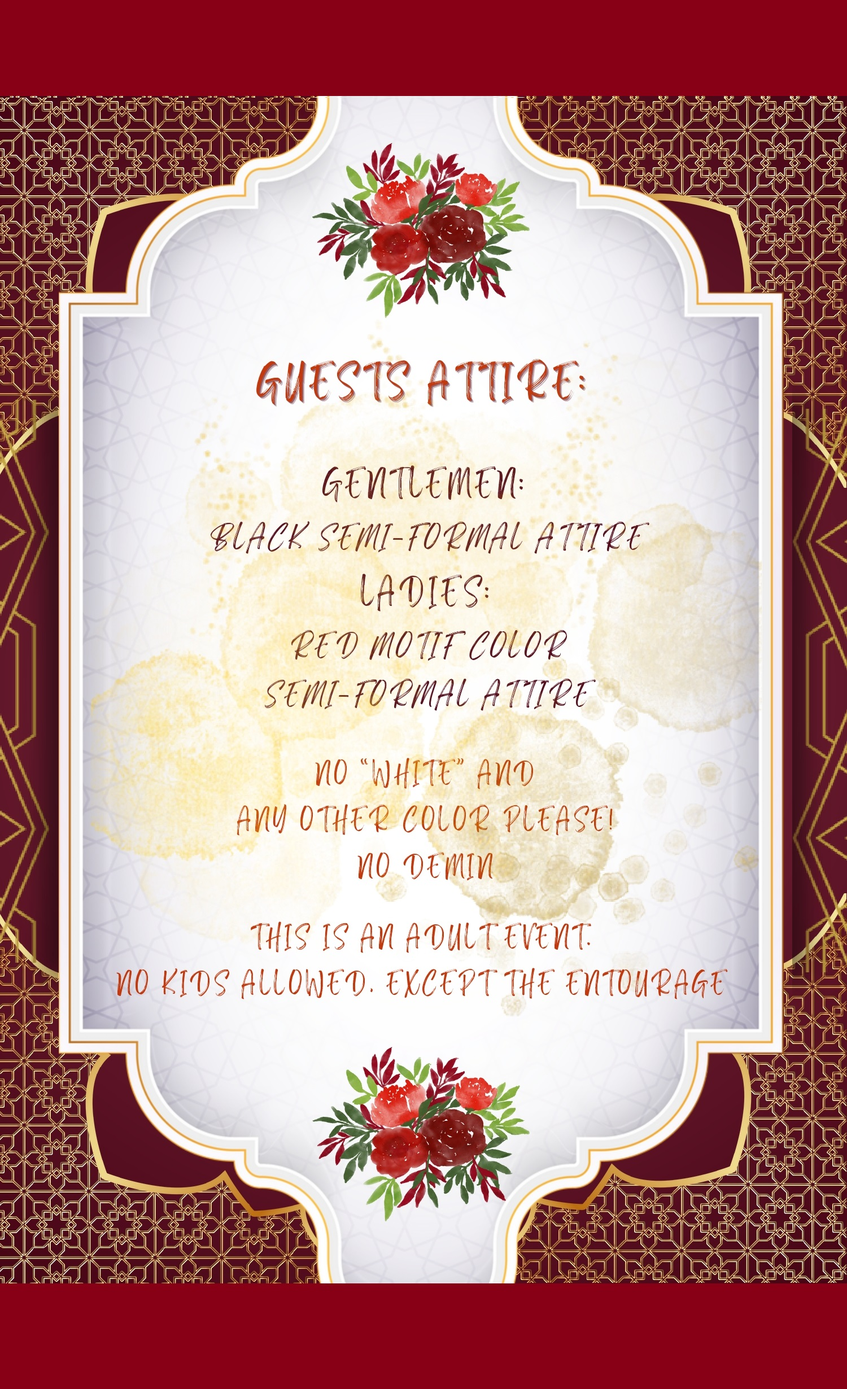
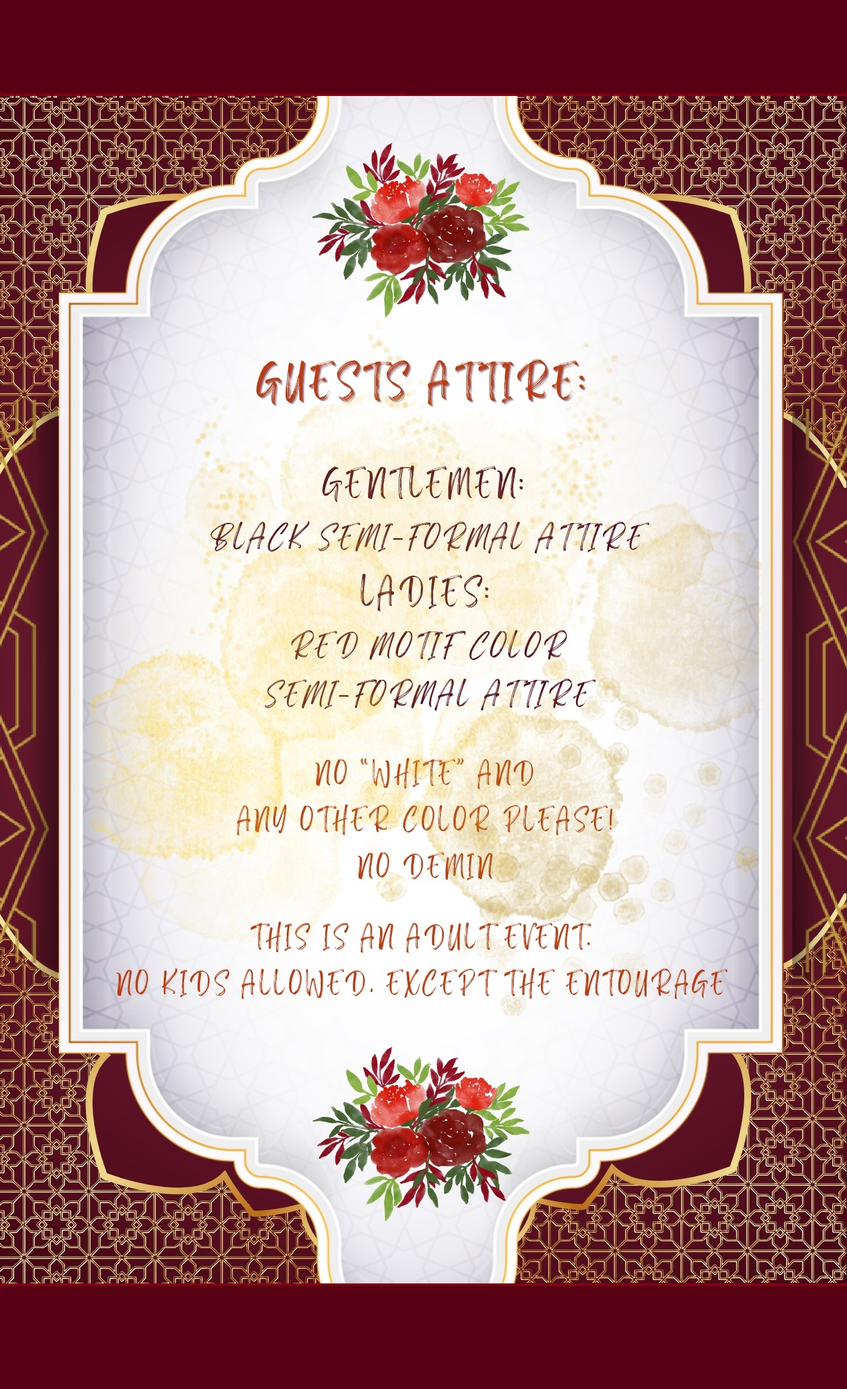
Add files via upload

Changed region(s): [[0.0, 0.9268, 1.0, 1.0], [0.0, 0.0, 1.0, 0.0927]]

diff --git a/style.css b/style.css
@@ -17,6 +17,8 @@
 }
 
 body {
+    background-color: rgb(90, 0, 0);
+
     @media screen and (min-width: 800px) {
         display: -webkit-box;
         display: -ms-flexbox;
@@ -138,7 +140,7 @@ ul {
 
 .firstPage {
     background-image: url('files/Invitation\ Cover_page-0001.jpg');
-    background-size: cover;
+    background-size: 100% 100%;
 
     @media screen and (min-width: 800px) {
         height: 100vh;
@@ -156,7 +158,7 @@ ul {
 
 .secondPage {
     background-image: url('files/Invitation\ Page\ 2_page-0001.jpg');
-    background-size: cover;
+    background-size: 100% 100%;
     -webkit-animation: fade-in;
             animation: fade-in;
     animation-timeline: view();
@@ -179,7 +181,7 @@ ul {
 
 .thirdPage {
     background-image: url('files/The\ Entourage\ Cover_page-0001.jpg');
-    background-size: cover;
+    background-size: 100% 100%;
     position: relative;
     -webkit-animation: fade-in;
             animation: fade-in;
@@ -258,7 +260,7 @@ ul {
 
 .fourthPage {
     background-image: url('files/The Venue Cover_page-0001.jpg');
-    background-size: cover;
+    background-size: 100% 100%;
     -webkit-animation: fade-in;
             animation: fade-in;
     animation-timeline: view();
@@ -281,7 +283,7 @@ ul {
 
 .fifthPage {
     background-image: url('files/The Venue Cover_page-0001.jpg');
-    background-size: cover;
+    background-size: 100% 100%;
     position: relative;
     -webkit-animation: fade-in;
             animation: fade-in;
@@ -390,7 +392,7 @@ ul {
 
 .sixthPage {
     background-image: url('files/Wedding Details Cover_page-0001.jpg');
-    background-size: cover;
+    background-size: 100% 100%;
     position: relative;
     -webkit-animation: fade-in;
             animation: fade-in;
@@ -448,7 +450,7 @@ ul {
 
 .seventhPage {
     background-image: url('files/Dresscode Cover_page-0001.jpg');
-    background-size: cover;
+    background-size: 100% 100%;
     -webkit-animation: fade-in;
             animation: fade-in;
     animation-timeline: view();
@@ -471,7 +473,7 @@ ul {
 
 .eightPage {
     background-image: url('files/Dresscode Page 1_page-0001.jpg');
-    background-size: cover;
+    background-size: 100% 100%;
     -webkit-animation: fade-in;
             animation: fade-in;
     animation-timeline: view();
@@ -495,7 +497,7 @@ ul {
 
 .ninthPage {
     background-image: url('files/Dresscode Page 2_page-0001.jpg');
-    background-size: cover;
+    background-size: 100% 100%;
     -webkit-animation: fade-in;
             animation: fade-in;
     animation-timeline: view();
@@ -519,7 +521,7 @@ ul {
 
 .tenthPage {
     background-image: url('files/Dresscode Page 3_page-0001.jpg');
-    background-size: cover;
+    background-size: 100% 100%;
     -webkit-animation: fade-in;
             animation: fade-in;
     animation-timeline: view();
@@ -543,7 +545,7 @@ ul {
 
 .formPage {
     background-image: url('files/The\ Form.jpg');
-    background-size: cover;
+    background-size: 100% 100%;
     -webkit-animation: fade-in;
             animation: fade-in;
     animation-timeline: view();
@@ -578,6 +580,7 @@ form {
     align-items: center;
     height: 50vh;
     width: 20vh;
+    color: gold;
 }
 
 #fullName {
@@ -607,6 +610,6 @@ form {
 
     @media screen and (max-width: 800px) {
         height: 3rem;
-        width: 20%;
+        width: 40%;
     }
 }

diff --git a/script.js b/script.js
@@ -17,6 +17,7 @@ let ul = document.getElementById("ul");
 let btn_group = document.getElementById("btn_group");
 let popUp = document.getElementById("popUp");
 let popUp_btn = document.getElementById("popUp_btn");
+let background_img = document.getElementById("background_img");
 let detailsPageTwo = true;
 let heigthFormula = window.innerHeight;
 let ulHeightFormula = window.innerHeight * 0.03;
@@ -31,8 +32,11 @@ let lowerBtn = window.innerHeight * 0.1;
 let lowerBtnTwo = window.innerHeight * 0.05;
 let padBot = window.innerHeight * 0.1;
 let screenWidth = window.innerWidth; 
+let screenHeight = window.innerHeight; 
+let pageHeight = firstPage.innerHeight;
+let pageWidth = firstPage.innerWidth;
 
-if (screenWidth <= 800) {
+if (screenWidth <= 1100) {
     popUp.style.width = popUpWidthFormula + 'px';
     popUp.style.height = popUpHeightFormula + 'px';
     popUp.style.top = popUpTopFormula + 'px';
@@ -55,7 +59,19 @@ if (screenWidth <= 800) {
     eightPage.style.height = heigthFormula + 'px';
     ninthPage.style.height = heigthFormula + 'px';
     tenthPage.style.height = heigthFormula + 'px';
-    tenthPage.style.marginBottom = padBot + 'px';
+    formPage.style.height = heigthFormula + 'px';
+    firstPage.style.width = screenWidth + 'px';
+    secondPage.style.width = screenWidth + 'px';
+    thirdPage.style.width = screenWidth + 'px';
+    fourthPage.style.width = screenWidth + 'px';
+    fifthPage.style.width = screenWidth + 'px';
+    sixthPage.style.width = screenWidth + 'px';
+    seventhPage.style.width = screenWidth + 'px';
+    eightPage.style.width = screenWidth + 'px';
+    ninthPage.style.width = screenWidth + 'px';
+    tenthPage.style.width = screenWidth + 'px';
+    formPage.style.width = screenWidth + 'px';
+    formPage.style.marginBottom = padBot + 'px';
     arrow_left.style.bottom = lowerBtnTwo + 'px';
     arrow_right.style.bottom = lowerBtnTwo + 'px';
     arrow_left.style.zIndex = 500;
@@ -70,6 +86,20 @@ if (screenWidth <= 800) {
     ninthPage.style.backgroundImage = "url('longFiles/Dresscode Page 2_page-0001.jpg')";
     tenthPage.style.backgroundImage = "url('longFiles/Dresscode Page 3_page-0001.jpg')";
     formPage.style.backgroundImage = "url('longFiles/The Form.jpg')";
+    if (screenHeight <= 1000) {
+        firstPage.style.backgroundSize = pageWidth + 'px ' + pageHeight + 'px';
+        secondPage.style.backgroundSize = pageWidth + 'px ' + pageHeight + 'px';
+        thirdPage.style.backgroundSize = pageWidth + 'px ' + pageHeight + 'px';
+        fourthPage.style.backgroundSize = pageWidth + 'px ' + pageHeight + 'px';
+        fifthPage.style.backgroundSize = pageWidth + 'px ' + pageHeight + 'px';
+        sixthPage.style.backgroundSize = pageWidth + 'px ' + pageHeight + 'px';
+        seventhPage.style.backgroundSize = pageWidth + 'px ' + pageHeight + 'px';
+        eightPage.style.backgroundSize = pageWidth + 'px ' + pageHeight + 'px';
+        ninthPage.style.backgroundSize = pageWidth + 'px ' + pageHeight + 'px';
+        tenthPage.style.backgroundSize = pageWidth + 'px ' + pageHeight + 'px';
+        formPage.style.backgroundSize = pageWidth + 'px ' + pageHeight + 'px';
+    }
+    background_img.style.display = 'none';
 }
 
 MusicOST = new Audio('files/BackgroundOST.mp3');
